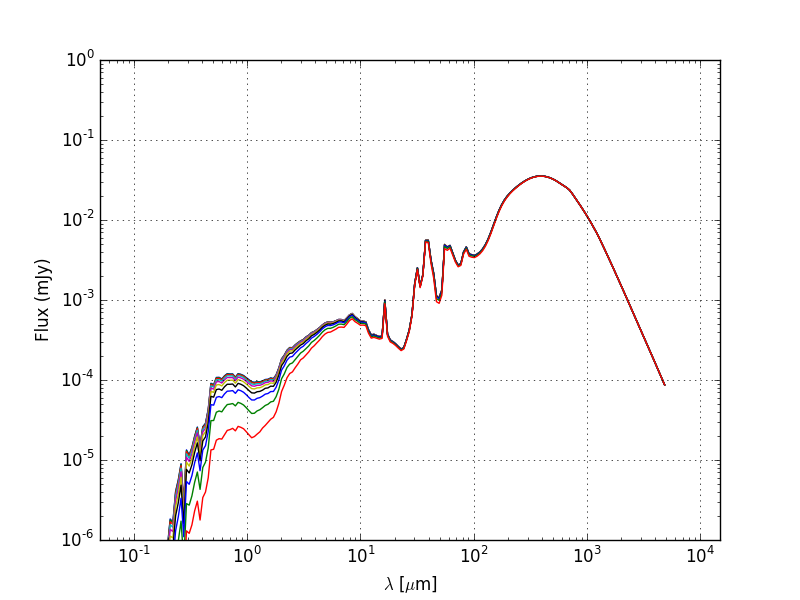
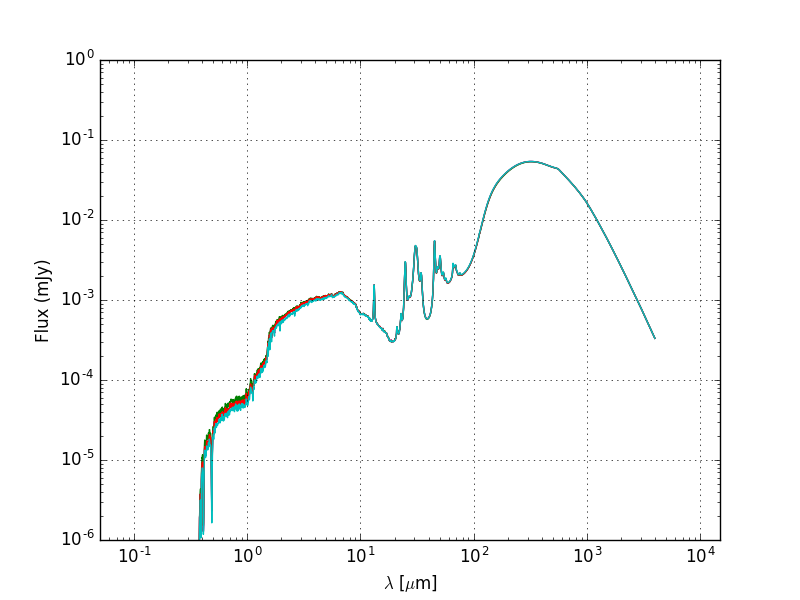
further updates to the docs

diff --git a/docs/quickstart.rst b/docs/quickstart.rst
@@ -32,9 +32,9 @@ The example simulation is a cosmological zoom simulation of a Milky Way mass gal
  <https://www.dropbox.com/s/g6d47z3pm8l18p7/snapshot_134.hdf5?dl=0>
 
 To run the code, you would type::
-  >[desika.narayanan@c25b-s38 pd]$ python pd_front_end.py  examples/gadget/mw_zoom parameters_master_401 parameters_model_401
+  >python pd_front_end.py  examples/gadget/mw_zoom parameters_master_401 parameters_model_401
 
-The SED (placed at z = 0.00001 with a Planck13 cosmology) looks like:
+The SED (placed at z = 3 with a Planck13 cosmology) looks like:
 
 .. image:: images/gadget_sed.png
    :align: center
